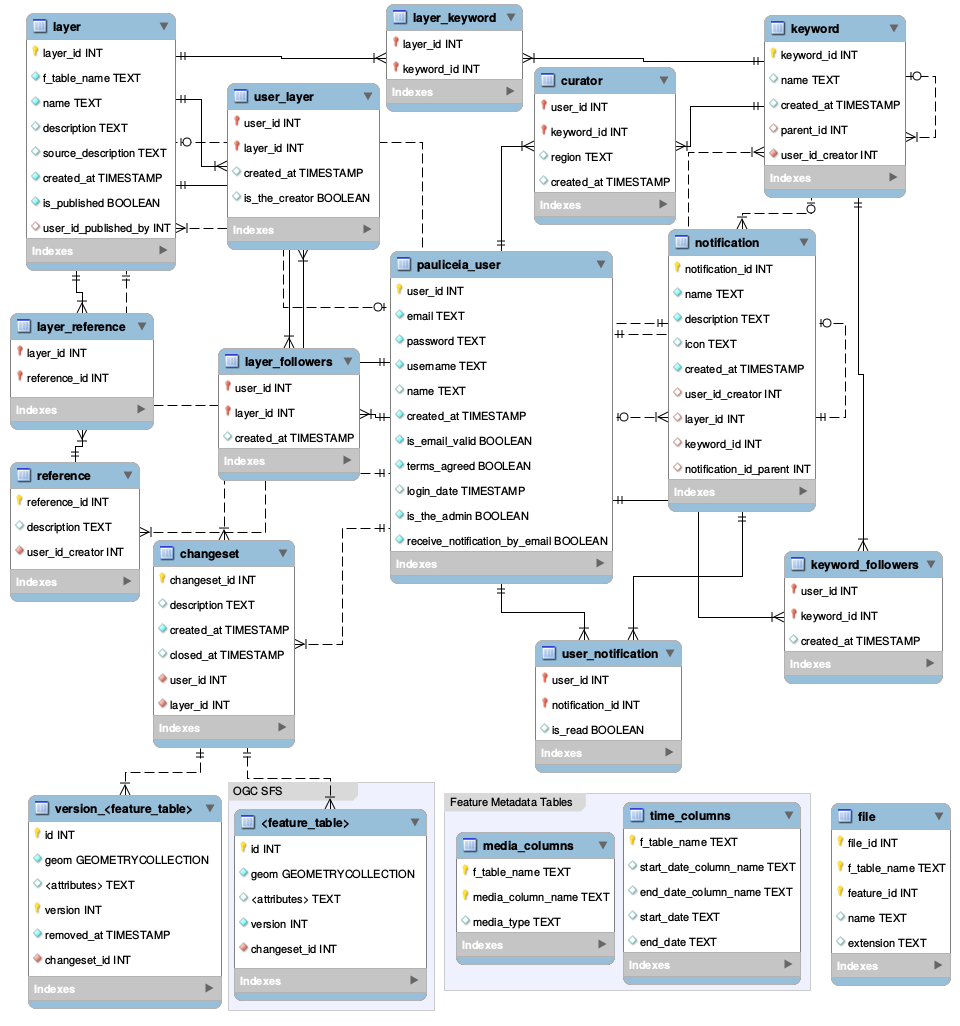
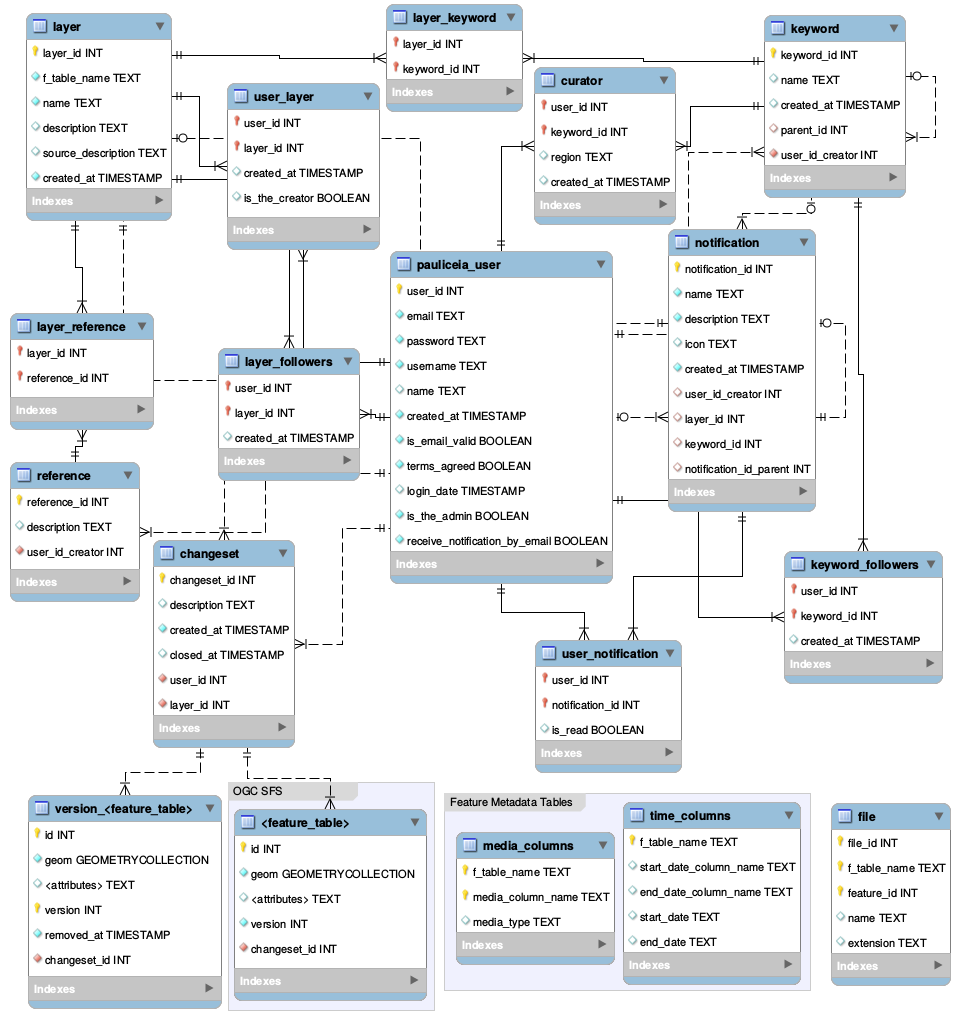
Removed the user_id_published_by of the layer

Changed region(s): [[0.0, 0.0936, 0.2188, 0.2807], [0.1562, 0.0, 0.1875, 0.0624]]

diff --git a/tests/test_api_layer.py b/tests/test_api_layer.py
@@ -21,43 +21,37 @@ class TestAPILayer(TestCase):
             'type': 'FeatureCollection',
             'features': [
                 {
-                    'properties': {'user_id_published_by': 1001, 'is_published': True, 'description': '',
-                                   'name': 'Addresses in 1869', 'reference': [1001, 1002],
+                    'properties': {'description': '', 'name': 'Addresses in 1869', 'reference': [1001, 1002],
                                    'layer_id': 1001, 'f_table_name': 'layer_1001', 'source_description': '',
                                    'created_at': '2017-01-01 00:00:00', 'keyword': [1001, 1041]},
                     'type': 'Layer'
                 },
                 {
-                    'properties': {'user_id_published_by': 1003, 'is_published': True, 'description': '',
-                                   'name': 'Robberies between 1880 to 1900', 'reference': [1005],
+                    'properties': {'description': '', 'name': 'Robberies between 1880 to 1900', 'reference': [1005],
                                    'layer_id': 1002, 'f_table_name': 'layer_1002', 'source_description': '',
                                    'created_at': '2017-03-05 00:00:00', 'keyword': [1010]},
                     'type': 'Layer'
                 },
                 {
-                    'properties': {'user_id_published_by': None, 'is_published': False, 'description': '',
-                                   'name': 'Streets in 1930', 'reference': [1010],
+                    'properties': {'description': '', 'name': 'Streets in 1930', 'reference': [1010],
                                    'layer_id': 1003, 'f_table_name': 'layer_1003', 'source_description': '',
                                    'created_at': '2017-04-10 00:00:00', 'keyword': [1001, 1040]},
                     'type': 'Layer'
                 },
                 {
-                    'properties': {'user_id_published_by': 1003, 'is_published': True, 'description': 'streets',
-                                   'name': 'Streets in 1920', 'reference': None, 'layer_id': 1004,
+                    'properties': {'description': 'streets', 'name': 'Streets in 1920', 'reference': None, 'layer_id': 1004,
                                    'f_table_name': 'layer_1004', 'source_description': '',
                                    'created_at': '2017-06-15 00:00:00', 'keyword': [1040]},
                     'type': 'Layer'
                 },
                 {
-                    'properties': {'user_id_published_by': None, 'is_published': False, 'description': 'some hospitals',
-                                   'name': 'Hospitals between 1800 to 1950', 'reference': None, 'layer_id': 1005,
+                    'properties': {'description': 'some hospitals', 'name': 'Hospitals between 1800 to 1950', 'reference': None, 'layer_id': 1005,
                                    'f_table_name': 'layer_1005', 'source_description': None,
                                    'created_at': '2017-08-04 00:00:00', 'keyword': [1023]},
                     'type': 'Layer'
                 },
                 {
-                    'properties': {'user_id_published_by': 1003, 'is_published': True, 'description': '',
-                                   'name': 'Cinemas between 1900 to 1950', 'reference': [1025],
+                    'properties': {'description': '', 'name': 'Cinemas between 1900 to 1950', 'reference': [1025],
                                    'layer_id': 1006, 'f_table_name': 'layer_1006', 'source_description': None,
                                    'created_at': '2017-09-04 00:00:00', 'keyword': [1031]},
                     'type': 'Layer'
@@ -71,8 +65,7 @@ class TestAPILayer(TestCase):
         expected = {
             'features': [
                 {
-                    'properties': {'user_id_published_by': 1001, 'is_published': True, 'description': '',
-                                   'name': 'Addresses in 1869', 'reference': [1001, 1002],
+                    'properties': {'description': '', 'name': 'Addresses in 1869', 'reference': [1001, 1002],
                                    'layer_id': 1001, 'f_table_name': 'layer_1001', 'source_description': '',
                                    'created_at': '2017-01-01 00:00:00', 'keyword': [1001, 1041]},
                     'type': 'Layer'
@@ -83,72 +76,11 @@ class TestAPILayer(TestCase):
 
         self.tester.api_layer(expected, layer_id="1001")
 
-    def test_get_api_layer_return_layer_by_is_published(self):
-        expected = {
-            'type': 'FeatureCollection',
-            'features': [
-                {
-                    'properties': {'user_id_published_by': 1001, 'is_published': True, 'description': '',
-                                   'name': 'Addresses in 1869',
-                                   'reference': [1001, 1002],
-                                   'layer_id': 1001, 'f_table_name': 'layer_1001', 'source_description': '',
-                                   'created_at': '2017-01-01 00:00:00', 'keyword': [1001, 1041]},
-                    'type': 'Layer'
-                },
-                {
-                    'properties': {'user_id_published_by': 1003, 'is_published': True, 'description': '',
-                                   'name': 'Robberies between 1880 to 1900', 'reference': [1005],
-                                   'layer_id': 1002, 'f_table_name': 'layer_1002', 'source_description': '',
-                                   'created_at': '2017-03-05 00:00:00', 'keyword': [1010]},
-                    'type': 'Layer'
-                },
-                {
-                    'properties': {'user_id_published_by': 1003, 'is_published': True, 'description': 'streets',
-                                   'name': 'Streets in 1920', 'reference': None, 'layer_id': 1004,
-                                   'f_table_name': 'layer_1004', 'source_description': '',
-                                   'created_at': '2017-06-15 00:00:00', 'keyword': [1040]},
-                    'type': 'Layer'
-                },
-                {
-                    'properties': {'user_id_published_by': 1003, 'is_published': True, 'description': '',
-                                   'name': 'Cinemas between 1900 to 1950', 'reference': [1025],
-                                   'layer_id': 1006, 'f_table_name': 'layer_1006', 'source_description': None,
-                                   'created_at': '2017-09-04 00:00:00', 'keyword': [1031]},
-                    'type': 'Layer'
-                }
-            ]
-        }
-
-        self.tester.api_layer(expected, is_published="TRUE")
-
-        expected = {
-            'type': 'FeatureCollection',
-            'features': [
-                {
-                    'properties': {'user_id_published_by': None, 'is_published': False, 'description': '',
-                                   'name': 'Streets in 1930', 'reference': [1010],
-                                   'layer_id': 1003, 'f_table_name': 'layer_1003', 'source_description': '',
-                                   'created_at': '2017-04-10 00:00:00', 'keyword': [1001, 1040]},
-                    'type': 'Layer'
-                },
-                {
-                    'properties': {'user_id_published_by': None, 'is_published': False, 'description': 'some hospitals',
-                                   'name': 'Hospitals between 1800 to 1950', 'reference': None, 'layer_id': 1005,
-                                   'f_table_name': 'layer_1005', 'source_description': None,
-                                   'created_at': '2017-08-04 00:00:00', 'keyword': [1023]},
-                    'type': 'Layer'
-                },
-            ]
-        }
-
-        self.tester.api_layer(expected, is_published="FALSE")
-
     def test_get_api_layer_return_layer_by_f_table_name(self):
         expected = {
             'features': [
                 {
-                    'properties': {'user_id_published_by': None, 'is_published': False, 'description': '',
-                                   'name': 'Streets in 1930', 'reference': [1010],
+                    'properties': {'description': '', 'name': 'Streets in 1930', 'reference': [1010],
                                    'layer_id': 1003, 'f_table_name': 'layer_1003', 'source_description': '',
                                    'created_at': '2017-04-10 00:00:00', 'keyword': [1001, 1040]},
                     'type': 'Layer'
@@ -164,15 +96,13 @@ class TestAPILayer(TestCase):
             'type': 'FeatureCollection',
             'features': [
                 {
-                    'properties': {'user_id_published_by': 1001, 'is_published': True, 'description': '',
-                                   'name': 'Addresses in 1869', 'reference': [1001, 1002],
+                    'properties': {'description': '', 'name': 'Addresses in 1869', 'reference': [1001, 1002],
                                    'layer_id': 1001, 'f_table_name': 'layer_1001', 'source_description': '',
                                    'created_at': '2017-01-01 00:00:00', 'keyword': [1001, 1041]},
                     'type': 'Layer'
                 },
                 {
-                    'properties': {'user_id_published_by': None, 'is_published': False, 'description': '',
-                                   'name': 'Streets in 1930', 'reference': [1010],
+                    'properties': {'description': '', 'name': 'Streets in 1930', 'reference': [1010],
                                    'layer_id': 1003, 'f_table_name': 'layer_1003', 'source_description': '',
                                    'created_at': '2017-04-10 00:00:00', 'keyword': [1001, 1040]},
                     'type': 'Layer'

diff --git a/models/db_connection.py b/models/db_connection.py
@@ -561,8 +561,6 @@ class PGSQLConnection:
                         'description',          description,
                         'source_description',   source_description,
                         'created_at',           to_char(created_at, 'YYYY-MM-DD HH24:MI:SS'),
-                        'is_published',         is_published,
-                        'user_id_published_by', user_id_published_by,
                         'reference',            reference_.jsontags,
                         'keyword',              keyword.jsontags
                     )
@@ -632,8 +630,8 @@ class PGSQLConnection:
         p = properties
 
         query_text = """
-            INSERT INTO layer (f_table_name, name, description, source_description, created_at, user_id_published_by) 
-            VALUES ('{0}', '{1}', '{2}', '{3}', LOCALTIMESTAMP, NULL) RETURNING layer_id;
+            INSERT INTO layer (f_table_name, name, description, source_description, created_at) 
+            VALUES ('{0}', '{1}', '{2}', '{3}', LOCALTIMESTAMP) RETURNING layer_id;
         """.format(p["f_table_name"], p["name"], p["description"], p["source_description"])
 
         # do the query in database

diff --git a/models/util/layer.py b/models/util/layer.py
@@ -16,9 +16,6 @@ def get_subquery_layer_table(**kwargs):
     if "f_table_name" in kwargs and kwargs["f_table_name"] is not None:
         conditions_of_where.append("f_table_name = '{0}'".format(kwargs["f_table_name"]))
 
-    if "is_published" in kwargs and kwargs["is_published"] is not None:
-        conditions_of_where.append("is_published = {0}".format(kwargs["is_published"]))
-
     # default get all features, without where clause
     where_clause = ""
 

diff --git a/tests/run_tests.py b/tests/run_tests.py
@@ -17,7 +17,7 @@ if __name__ == '__main__':
 
     # Get all the files on current folder that has .py in the final
     tests = TestLoader().discover(ROOT_PATH, "*.py")
-    # tests = TestLoader().discover(ROOT_PATH, "test_api_reference.py")
+    # tests = TestLoader().discover(ROOT_PATH, "test_api_layer.py")
 
     # Run the tests - verbosity=2 increases the level of detail of output
     result = TextTestRunner(verbosity=2).run(tests)
